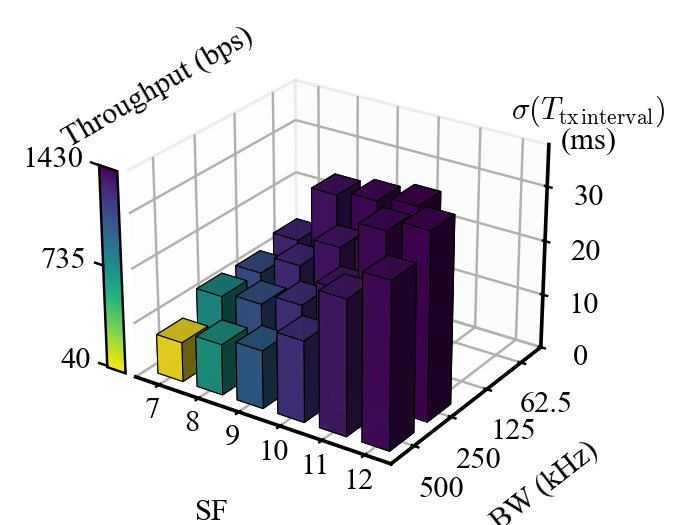
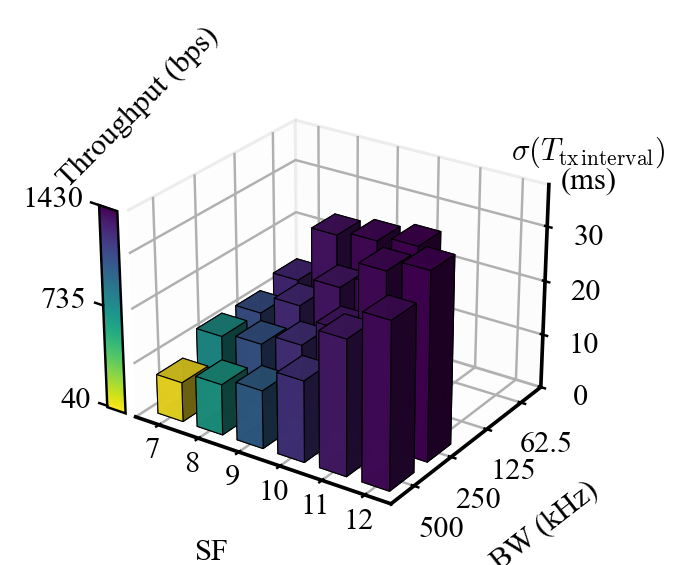
Added STAND to gs plot

diff --git a/tools/plots/plot_rssi_vs_multiple.py b/tools/plots/plot_rssi_vs_multiple.py
@@ -1635,6 +1635,18 @@ def main():
         scale_graph_side="right",
         label_graph_side="left",
     )
+    plot_rssi_3d_combined(
+        records,
+        os.path.join(args.output_dir, "raw_rssi_3d_combined_stand_left.png"),
+        scale_graph_side="stand",
+        label_graph_side="left",
+    )
+    plot_rssi_3d_combined(
+        records,
+        os.path.join(args.output_dir, "raw_rssi_3d_combined_stand_right.png"),
+        scale_graph_side="stand",
+        label_graph_side="right",
+    )
     plot_rssi_distance_sfbw_surface(agg_records, os.path.join(args.output_dir, "raw_rssi_distance_sfbw_surface.png"))
     plot_rssi_distance_signal_tradeoff_surfaces(
         agg_records,
